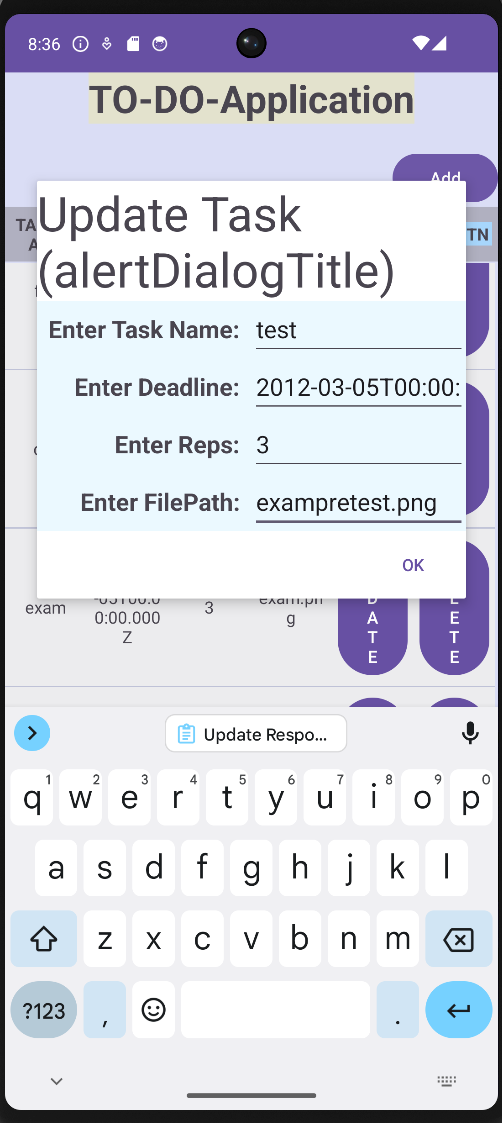
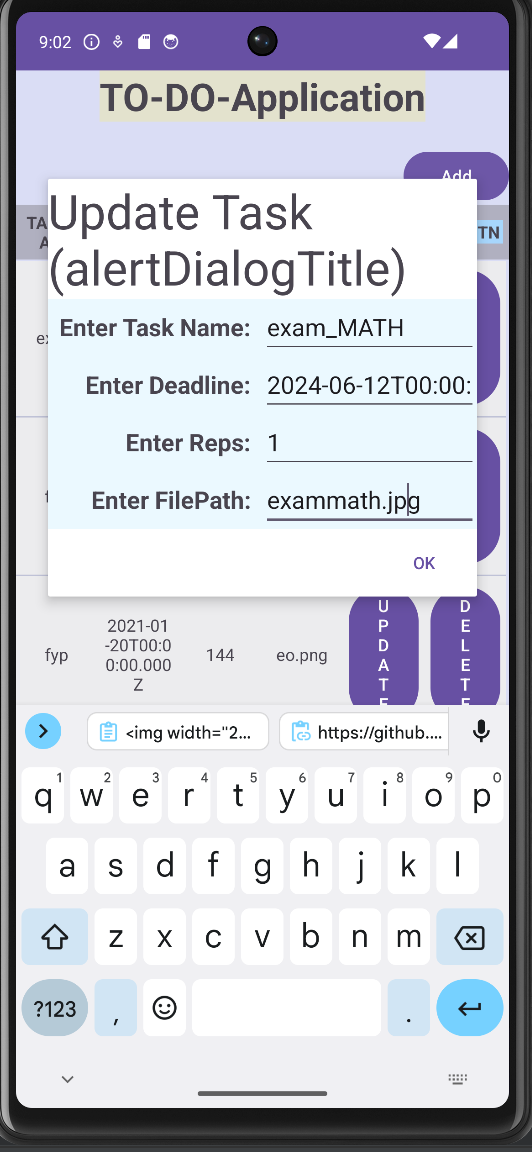
readme

diff --git a/readme.md b/readme.md
@@ -4,7 +4,7 @@
 <tbody>
   <tr>
     <th>Frontend</th>
-    <td> Android Studio</td>
+    <td> Android Studio (JAVA) </td>
   </tr>
   <tr>
     <th rowspan="2">Backend</th>
@@ -33,21 +33,21 @@
 <span>[android2.png]</span><br>
 <img width="261" alt="android2" src="https://github.com/IvanENERGY/AndroidStudio-Nodejs-Expressjs-MSSQLSERVER-demoCRUD/assets/90034836/819538cc-48ca-43be-9b3f-d1becee135a7"><br>
 <span>[android3.png]</span><br>
-<img width="268" alt="android3" src="https://github.com/IvanENERGY/AndroidStudio-Nodejs-Expressjs-MSSQLSERVER-demoCRUD/assets/90034836/62932431-3a56-4b19-9901-564ea6ad1c6b"><br>
+<img width="259" alt="android3" src="https://github.com/IvanENERGY/AndroidStudio-Nodejs-Expressjs-MSSQLSERVER-demoCRUD/assets/90034836/df4b8d95-19bd-405e-b75e-5d370faf201e"><br>
 <span>[android4.png]</span><br>
 <img width="266" alt="android4" src="https://github.com/IvanENERGY/AndroidStudio-Nodejs-Expressjs-MSSQLSERVER-demoCRUD/assets/90034836/f182fa52-70fc-42e1-af51-c2a6128ccdfe"><br>
-
+<img width="256" alt="android4_2" src="https://github.com/IvanENERGY/AndroidStudio-Nodejs-Expressjs-MSSQLSERVER-demoCRUD/assets/90034836/550293bd-e3e0-47c2-b4bf-bea7ced9c04b"><br>
 <h2>UPDATE</h2>
 <span>[android5.png]</span><br>
 <img width="265" alt="android5" src="https://github.com/IvanENERGY/AndroidStudio-Nodejs-Expressjs-MSSQLSERVER-demoCRUD/assets/90034836/594cb8df-11ed-4280-96d8-a7de77f87ce5"><br>
 
 <span>[android6.png]</span><br><p>Make changes to taks name and file path</p>
-<img width="251" alt="android6" src="https://github.com/IvanENERGY/AndroidStudio-Nodejs-Expressjs-MSSQLSERVER-demoCRUD/assets/90034836/a520eeac-8283-4aa4-9210-190823e859a4"><br>
+<img width="266" alt="android6" src="https://github.com/IvanENERGY/AndroidStudio-Nodejs-Expressjs-MSSQLSERVER-demoCRUD/assets/90034836/52fb003d-9c6d-4979-88ea-b257352157ef"><br>
 <span>[android7.png]</span><br>
 <img width="257" alt="android7" src="https://github.com/IvanENERGY/AndroidStudio-Nodejs-Expressjs-MSSQLSERVER-demoCRUD/assets/90034836/accbc0f0-02aa-425d-be98-c7f116d172fb"><br>
 <p>Updated result displayed as follows:</p>
 <span>[android8.png]</span><br>
-<img width="254" alt="android8" src="https://github.com/IvanENERGY/AndroidStudio-Nodejs-Expressjs-MSSQLSERVER-demoCRUD/assets/90034836/e87971de-8b45-48b3-9e29-19c736e798f5"><br>
+<img width="259" alt="android8" src="https://github.com/IvanENERGY/AndroidStudio-Nodejs-Expressjs-MSSQLSERVER-demoCRUD/assets/90034836/73b26b9f-337c-4eba-b594-8ad125ee865a"><br>
 
 <h2>DELETE</h2>
 <span>[android9.png]</span><br>
